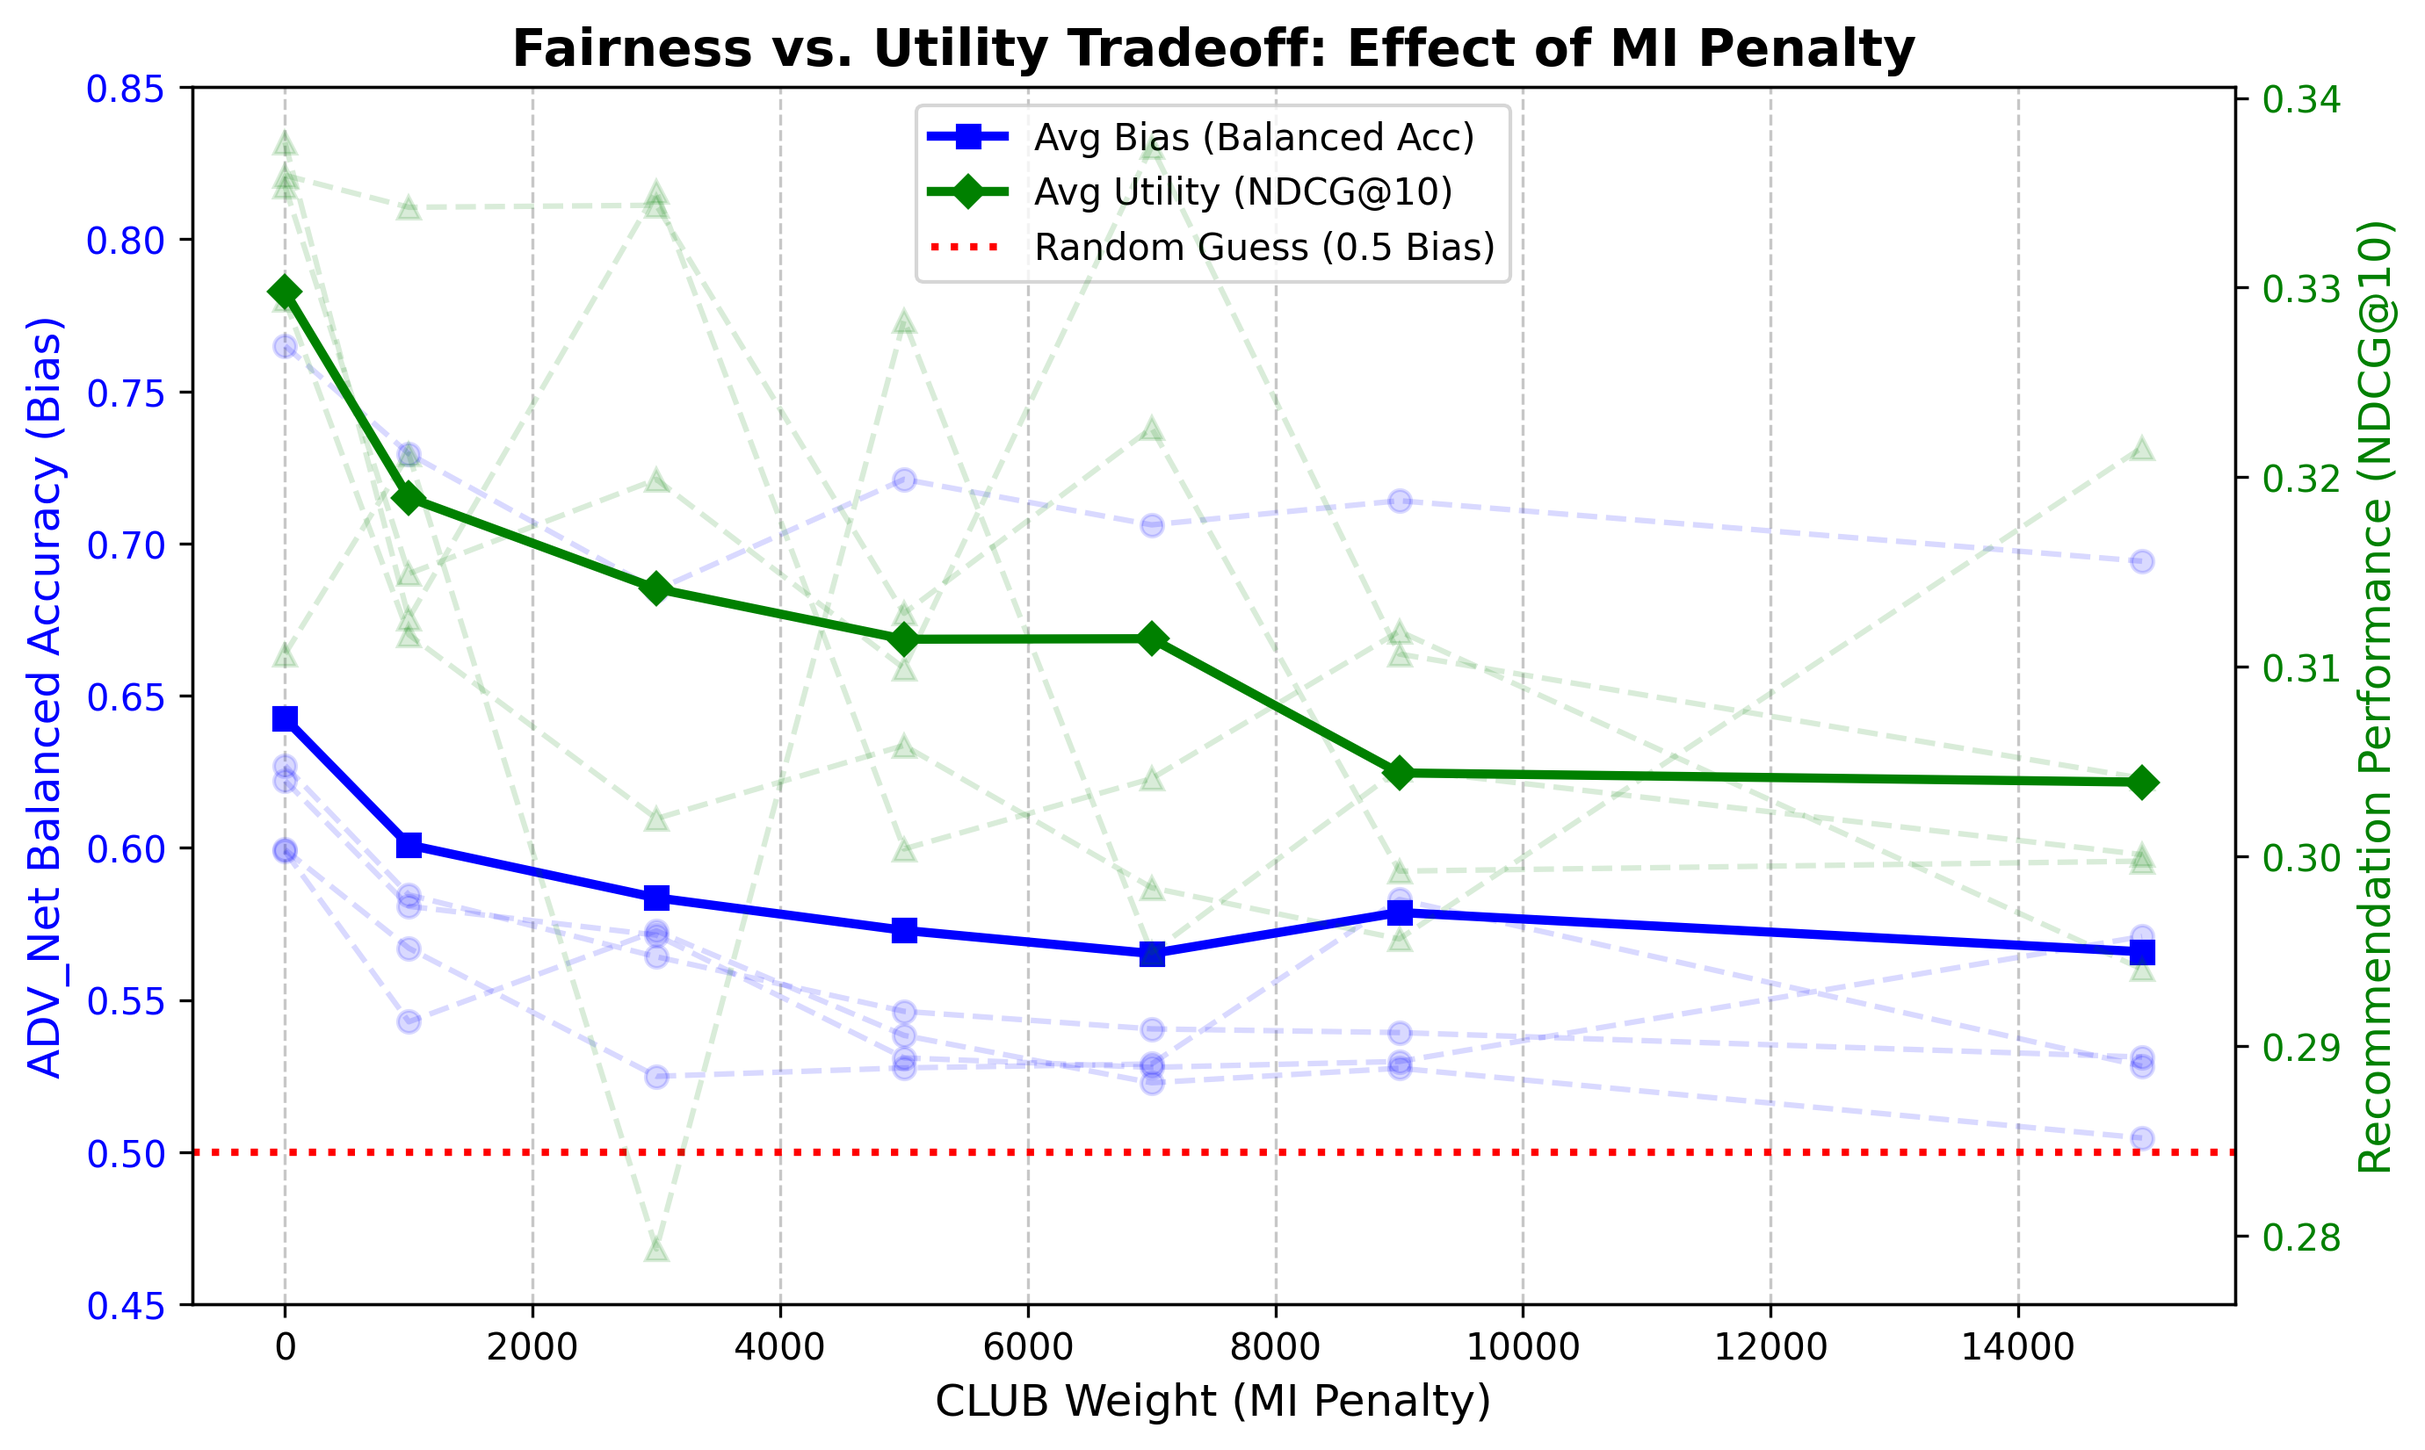
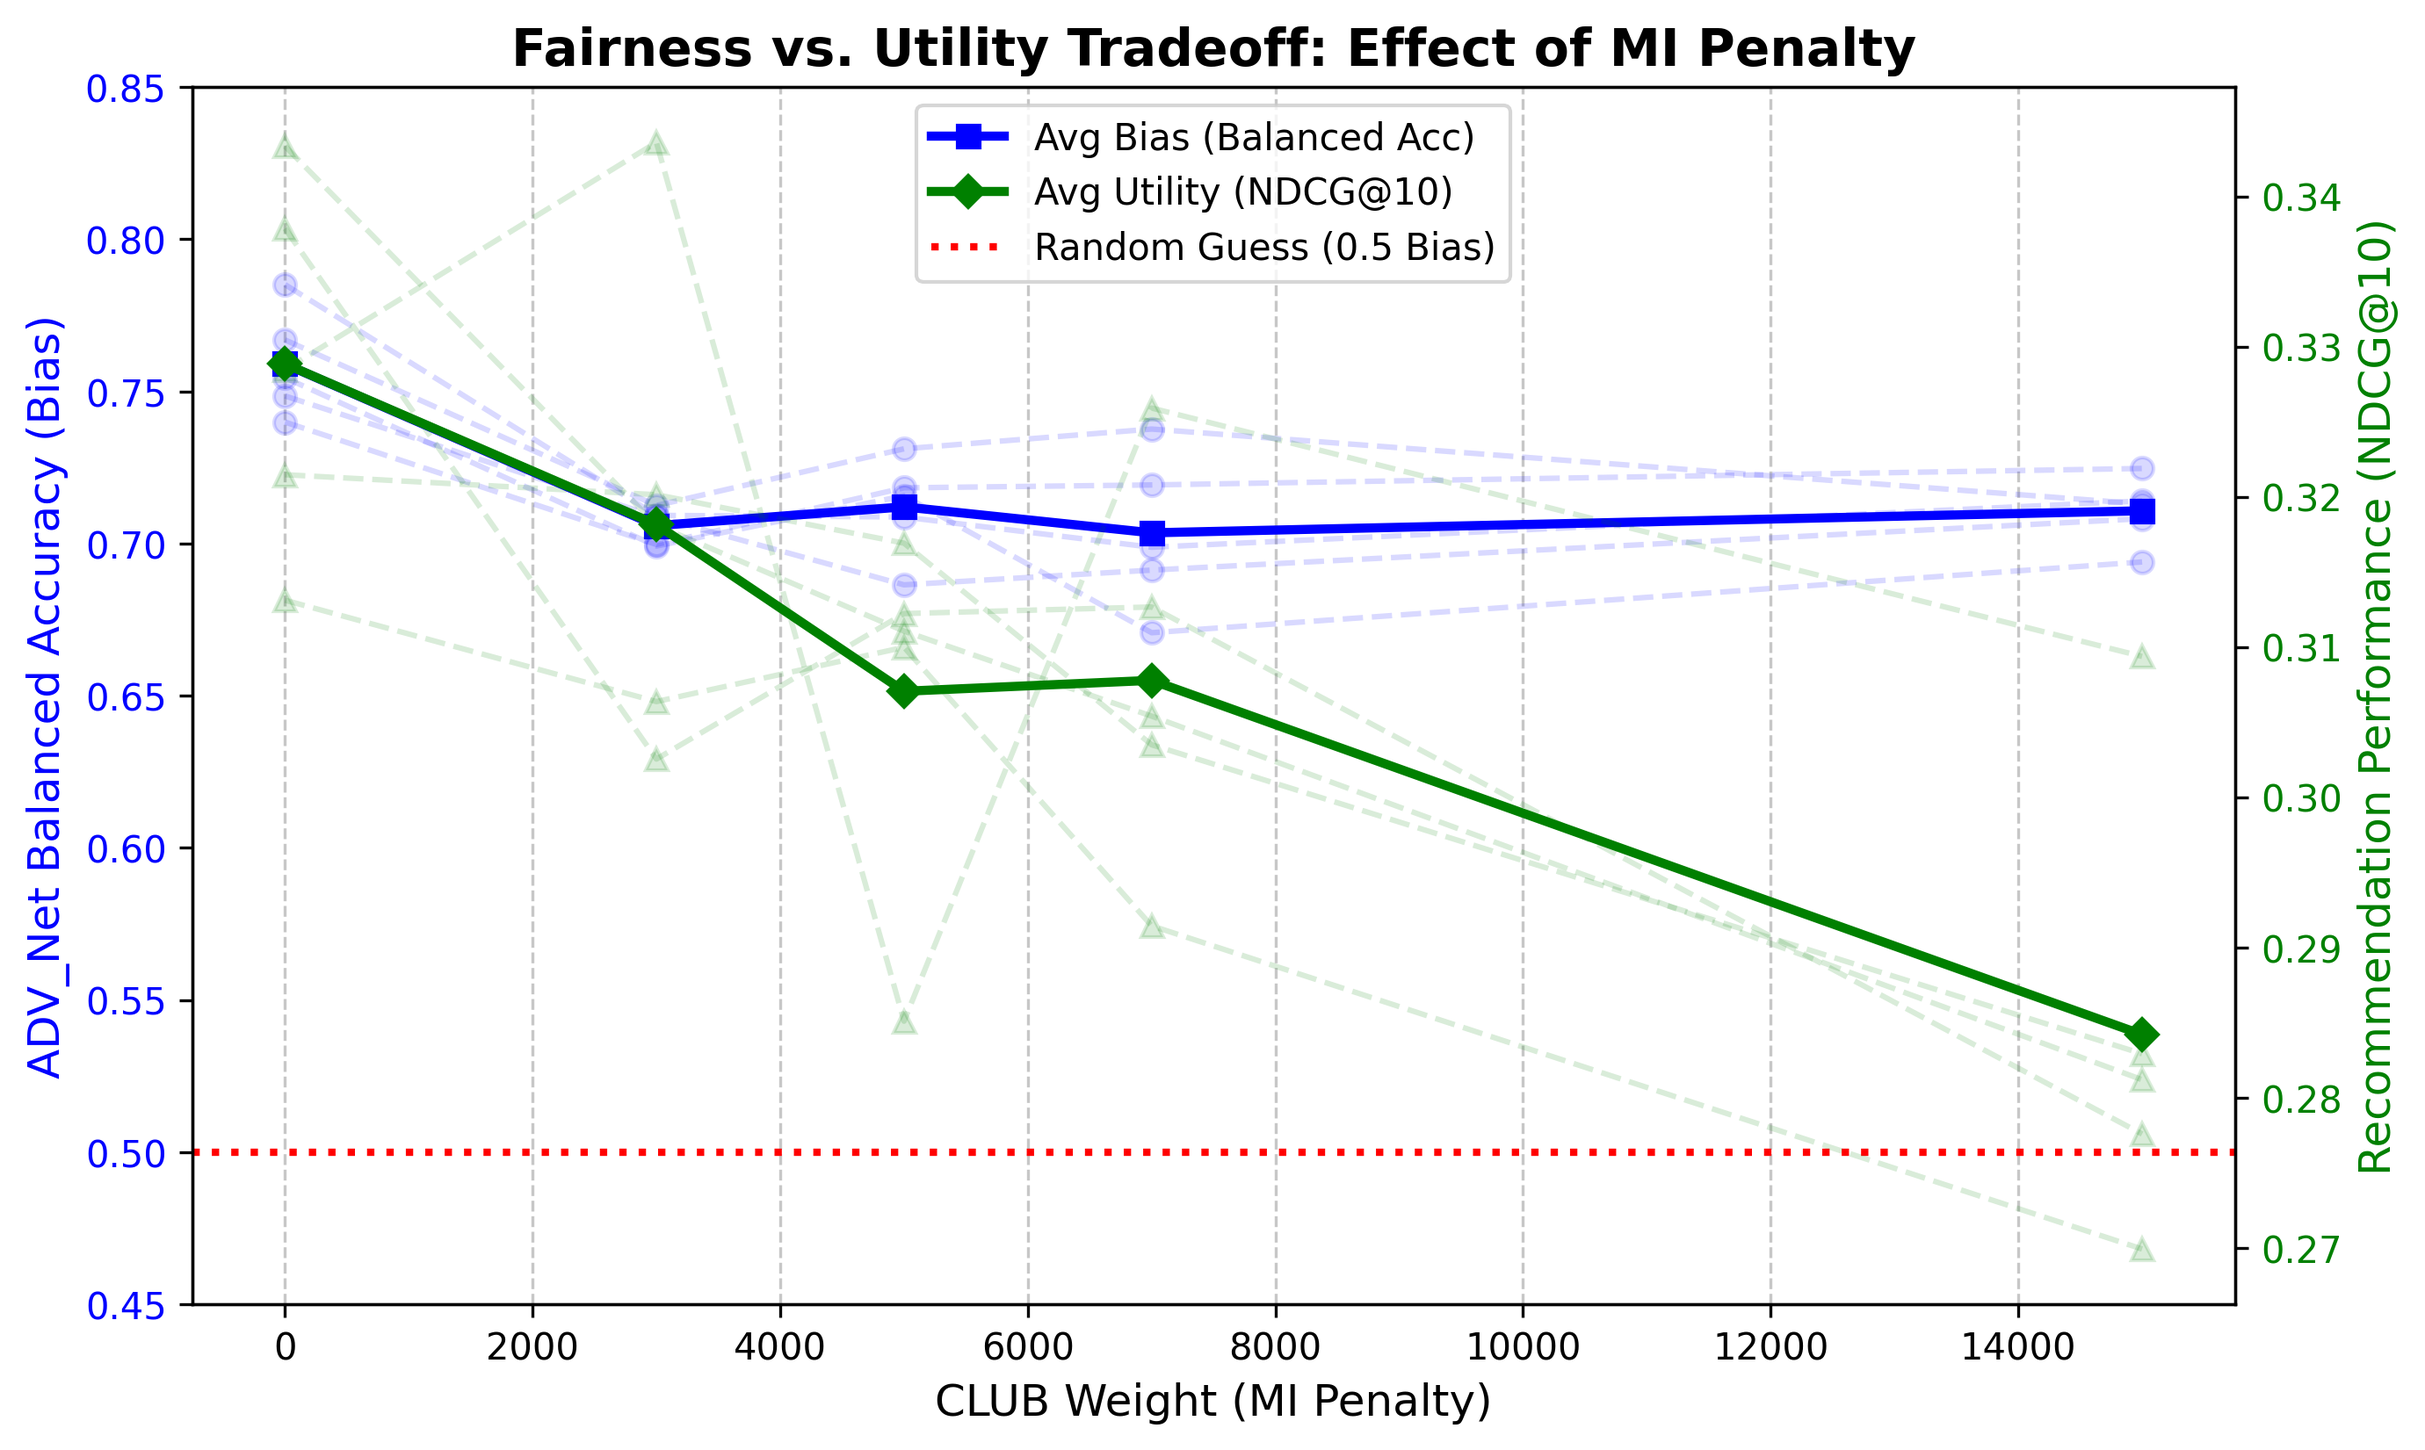
fixed some stuff

diff --git a/main.py b/main.py
@@ -1,10 +1,15 @@
 import argparse
+import os
+
+import pandas as pd
+import torch
 from NN_trainers.multVAE_trainer import train as train_multvae
 from NN_trainers.multVAE_DA_trainer import train as train_multvae_da
 from DataLoaders.ML1M_loader import get_ml1m_dataloaders
 from torch.utils.data import DataLoader
 from matplotlib import pyplot as plt
 import numpy as np
+from tqdm import tqdm
 
 # console app boilerplate
 if __name__ == "__main__":
@@ -14,36 +19,50 @@ if __name__ == "__main__":
     model_group.add_argument('--multvae', action='store_true', help='Train the multVAE model')
     model_group.add_argument('--multvae_da', action='store_true', help='Train the multVAE model with domain adaptation')
     model_group.add_argument('--multvae_da_visualize', action='store_true', help='Train the multVAE model with domain adaptation and visualize the bias by varying the CLUB weight')
+    parser.add_argument('--epochs', type=int, default=70, help='Number of training epochs')
+    parser.add_argument('--alldata', action='store_true', help='Use all data for training (no validation set)')
+    parser.add_argument('--prioritize_bias', action='store_true', help='Prioritize bias reduction by selecting the model with the lowest balanced accuracy on the bias prediction task, instead of the best validation performance')
+    parser.add_argument('--club_weight', type=float, default=7000.0, help='Weight for the CLUB penalty in the multVAE_DA model')
 
     # parse arguments
     args = parser.parse_args()
 
     # main logic here
     if args.multvae:
-        train_loader, val_loader, test_loader, train_user_info = get_ml1m_dataloaders()
+        train_loader, val_loader, test_loader, _ = get_ml1m_dataloaders()
         for idx, fold in enumerate(train_loader):
             print("Fold ", idx)
-            epochs = 70
+            epochs = args.epochs
             train_multvae(epochs=epochs, train_loader=DataLoader(fold, batch_size=128, shuffle=True), val_loader=DataLoader(val_loader[idx], batch_size=128, shuffle=False), test_loader=DataLoader(test_loader[idx], batch_size=128, shuffle=False), anneal_steps=len(fold)*45, anneal_cap=0.2)
 
     elif args.multvae_da:
         train_loader, val_loader, test_loader, train_user_info = get_ml1m_dataloaders()
-        for idx, fold in enumerate(train_loader):
-            print("Fold ", idx)
-            epochs = 70
-            train_multvae_da(epochs=epochs, train_loader=DataLoader(fold, batch_size=128, shuffle=True), train_user_info=train_user_info, val_loader=DataLoader(val_loader[idx], batch_size=128, shuffle=False), test_loader=DataLoader(test_loader[idx], batch_size=128, shuffle=False), anneal_steps=len(fold)*45, anneal_cap=0.2)
+        epochs = args.epochs
+        if args.alldata:
+            train_loader = torch.utils.data.ConcatDataset(train_loader)
+            val_loader = torch.utils.data.ConcatDataset(val_loader)
+            test_loader = torch.utils.data.ConcatDataset(test_loader)
+            train_user_info = pd.concat(train_user_info, ignore_index=True)
+            train_multvae_da(epochs=epochs, train_loader=DataLoader(train_loader, batch_size=128, shuffle=True), train_user_info=train_user_info, val_loader=DataLoader(val_loader, batch_size=128, shuffle=False), test_loader=DataLoader(test_loader, batch_size=128, shuffle=False), anneal_steps=len(train_loader)*120, anneal_cap=0.2, club_weight=args.club_weight, prioritize_bias=args.prioritize_bias)
+            
+        else:
+            for idx, fold in enumerate(train_loader):
+                print("Fold ", idx)
+                train_multvae_da(epochs=epochs, train_loader=DataLoader(fold, batch_size=128, shuffle=True), train_user_info=train_user_info[idx], val_loader=DataLoader(val_loader[idx], batch_size=128, shuffle=False), test_loader=DataLoader(test_loader[idx], batch_size=128, shuffle=False), anneal_steps=len(fold)*120, anneal_cap=0.2, club_weight=args.club_weight, prioritize_bias=args.prioritize_bias)
     elif args.multvae_da_visualize:
         train_loader, val_loader, test_loader, train_user_info = get_ml1m_dataloaders()
-        club_weights = [0.0, 1000.0, 3000.0, 5000.0, 7000.0, 9000.0, 15000.0]
-        epochs = 70
+        train_loader = torch.utils.data.ConcatDataset(train_loader)
+        val_loader = torch.utils.data.ConcatDataset(val_loader)
+        test_loader = torch.utils.data.ConcatDataset(test_loader)
+        train_user_info = pd.concat(train_user_info, ignore_index=True)
+        club_weights = [0.0, 3000.0, 7000.0, 15000.0, 20000.0]
+        epochs = args.epochs
         all_results = {w: [] for w in club_weights}
-
-        for idx, fold in enumerate(train_loader):
-            print("Fold ", idx)
-            for club_weight in club_weights:
-                (b_acc, ndcg) = train_multvae_da(epochs=int(epochs+(club_weight/100)), train_loader=DataLoader(fold, batch_size=128, shuffle=True), train_user_info=train_user_info, val_loader=DataLoader(val_loader[idx], batch_size=128, shuffle=False), test_loader=DataLoader(test_loader[idx], batch_size=128, shuffle=False), anneal_steps=len(fold)*int(45+(club_weight/100)), anneal_cap=0.2, club_weight=club_weight)
-                print(f"Club weight: {club_weight}, Best accuracy: {b_acc}, NDCG: {ndcg}")
-                all_results[club_weight].append((b_acc, ndcg))
+        for club_weight in tqdm(club_weights):
+            
+            (b_acc, ndcg) = train_multvae_da(epochs=int(epochs+(club_weight/100)), train_loader=DataLoader(train_loader, batch_size=128, shuffle=True), train_user_info=train_user_info, val_loader=DataLoader(val_loader, batch_size=128, shuffle=False), test_loader=DataLoader(test_loader, batch_size=128, shuffle=False), anneal_steps=len(train_loader)*int(45+(club_weight/100)), anneal_cap=0.2, club_weight=club_weight, prioritize_bias=args.prioritize_bias)
+            print(f"Club weight: {club_weight}, Best accuracy: {b_acc}, NDCG: {ndcg}")
+            all_results[club_weight].append((b_acc, ndcg))
 
         fig, ax1 = plt.subplots(figsize=(10, 6))
         ax2 = ax1.twinx()  # Create a second y-axis sharing the same x-axis

diff --git a/NN_trainers/multVAE_DA_trainer.py b/NN_trainers/multVAE_DA_trainer.py
@@ -11,6 +11,7 @@ import matplotlib.pyplot as plt
 import numpy as np
 from torch.utils.data import Subset
 import random
+from tqdm import tqdm
 
 def reparameterize(mu, logvar):
     std = torch.exp(0.5 * logvar)
@@ -30,7 +31,7 @@ def log_likelihood(y, mu, logvar):
         dim=1
     )
 
-def train(epochs, train_loader, train_user_info, test_loader=None, val_loader=None, anneal_steps=10000, anneal_cap=0.8, club_weight=5000.0):
+def train(epochs, train_loader, train_user_info, test_loader=None, val_loader=None, anneal_steps=10000, anneal_cap=0.8, club_weight=5000.0, prioritize_bias=False):
     device = torch.device('cuda:0' if torch.cuda.is_available() else 'cpu')
     latent_dim = 200
 
@@ -77,9 +78,10 @@ def train(epochs, train_loader, train_user_info, test_loader=None, val_loader=No
     print('Starting training...')
     best_result = 0.0
     best_model = None
+    last_model = None
     features_for_pca = []
     lables_for_visual = []
-    for j in range(epochs):
+    for j in tqdm(range(epochs)):
         for _, (x_data, _, idx) in enumerate(train_loader):
             x_data = x_data.to(device)
 
@@ -92,14 +94,14 @@ def train(epochs, train_loader, train_user_info, test_loader=None, val_loader=No
             sample_z_mipass = reparameterize(mu=mu_mipass, logvar=logvar_mipass)
             sample_z_mipass = sample_z_mipass.to(device)
             #print(sample_z_mipass.shape)
-            features_for_pca.extend(sample_z_mipass.cpu().detach().numpy().tolist())
+            #features_for_pca.extend(sample_z_mipass.cpu().detach().numpy().tolist())
             sample_domain_z_mipass = reparameterize(mu=mu_domain_mipass, logvar=logvar_domain_mipass)
             domain_pred_mu_mipass, domain_pred_logvar_mipass = mi_model(sample_z_mipass)
             mi_loss = -torch.mean(log_likelihood(sample_domain_z_mipass, domain_pred_mu_mipass, domain_pred_logvar_mipass)) # negative log likelihood
             mi_loss.backward()
             mi_optim.step()
 
-            recon_batch_featureoptim, mu_featureoptim, logvar_featureoptim, domain_prediction_featureoptim, mu_domain_featureoptim, logvar_domain_featureoptim = model(x_data)
+            recon_batch_featureoptim, mu_featureoptim, logvar_featureoptim, _, mu_domain_featureoptim, logvar_domain_featureoptim = model(x_data)
             # Compute VAE loss
             if total_anneal_steps > 0:
                 anneal = min(anneal_cap, 1. * update_count / total_anneal_steps)
@@ -164,7 +166,7 @@ def train(epochs, train_loader, train_user_info, test_loader=None, val_loader=No
             real_domain = train_user_info.iloc[idx.numpy()]
             gender_map = {'M': 1, 'F': 0}
             gender_array = real_domain['gender'].map(gender_map).to_numpy()
-            lables_for_visual.extend(gender_array)
+            #lables_for_visual.extend(gender_array)
             gender_tensor = torch.from_numpy(gender_array.copy()).float()
             gender_tensor = gender_tensor.to(device)
             loss = domain_loss(domain_predictions_domainoptim, torch.unsqueeze(gender_tensor, 1))
@@ -192,6 +194,19 @@ def train(epochs, train_loader, train_user_info, test_loader=None, val_loader=No
                     best_model = model.state_dict()  # Save the best model weights
                     #print(f'New best model found at epoch {j+1} with NDCG@10: {best_result:.4f}')
             model.train()
+
+    last_model = model.state_dict()  # Save the last model weights after training is complete
+
+    # get some random samples from the latent space to train the adversarial network on
+
+    for _, (x_data, _, idx) in enumerate(train_loader):
+            x_data = x_data.to(device)
+            _, mu, logvar, _, mu_domain, logvar_domain = model(x_data)
+            sample_z = reparameterize(mu=mu, logvar=logvar)
+            sample_z = sample_z.to(device)
+            features_for_pca.extend(sample_z.cpu().detach().numpy().tolist())
+            lables_for_visual.extend(train_user_info.iloc[idx.numpy()]['gender'].map({'M': 1, 'F': 0}).tolist())
+
 
     # visualize PCA with gender variable
     num_men = sum(lables_for_visual)
@@ -227,11 +242,15 @@ def train(epochs, train_loader, train_user_info, test_loader=None, val_loader=No
 
     #print(features_train.shape)
     #print(lables_train.shape)
-    for _ in range(10):
+    adv_model.to(device)
+    for _ in tqdm(range(10)):
         for batch in range(np.ceil(features_train.shape[0]/128).astype(int)):
             
             x_data = torch.from_numpy(features_train[batch*128:np.min([batch*128+128, features_train.shape[0]])])
             y_data = torch.from_numpy(lables_train[batch*128:np.min([batch*128+128, features_train.shape[0]])]).long()
+
+            x_data = x_data.to(device)
+            y_data = y_data.to(device)
 
             #print(x_data.type())
             #print(y_data.type())
@@ -254,6 +273,10 @@ def train(epochs, train_loader, train_user_info, test_loader=None, val_loader=No
         all_true = lables_test #torch.argmax(torch.from_numpy(lables_test), dim=1).numpy()
 
         b_acc = balanced_accuracy_score(all_true, all_preds)
+        if b_acc < least_b_acc and epochs > 70:  # Only consider models after a certain number of epochs to avoid early instability
+            least_b_acc = b_acc
+            least_b_acc_model = model.state_dict()
+            print(f"New least balanced accuracy model found with BACC: {least_b_acc}")
         print(f"Standardized Balanced Accuracy: {b_acc}")
         # 0.5 is random chance, 1.0 is perfect bias, 0.0 is perfectly wrong
     # TODO: train user etc. blabblablabla
@@ -278,6 +301,8 @@ def train(epochs, train_loader, train_user_info, test_loader=None, val_loader=No
 
     # check performance on test set after training is complete
     model.load_state_dict(best_model)  # Load the best model weights before testing
+    if prioritize_bias:
+        model.load_state_dict(last_model)
     if test_loader is not None:
         model.eval()
         batch_evaluator = BatchEvaluator(metrics=["ndcg", "recall"], top_k=[10, 50])

diff --git a/DataLoaders/ML1M_loader.py b/DataLoaders/ML1M_loader.py
@@ -38,6 +38,10 @@ class MovieLensDataset(Dataset):
     
 def get_ml1m_dataloaders():
     train_fold_list = []
+    train_user_info = []
+    val_fold_list = []
+    test_fold_list = []
+
     for i in range(5):
         train_fold_list.append(
             MovieLensDataset(
@@ -46,9 +50,6 @@ def get_ml1m_dataloaders():
                 fold_id=i
             )
         )
-    train_user_info = pd.read_csv(os.path.join(os.path.join('datasets', 'processed', 'ml-1m'), f"{i}", f'train_user_info.csv'))
-    val_fold_list = []
-    for i in range(5):
         val_fold_list.append(
             MovieLensDataset(
                 data_dir=os.path.join('datasets', 'processed', 'ml-1m'),
@@ -56,8 +57,6 @@ def get_ml1m_dataloaders():
                 fold_id=i
             )
         )
-    test_fold_list = []
-    for i in range(5):
         test_fold_list.append(
             MovieLensDataset(
                 data_dir=os.path.join('datasets', 'processed', 'ml-1m'),
@@ -65,5 +64,6 @@ def get_ml1m_dataloaders():
                 fold_id=i
             )
         )
+        train_user_info.append(pd.read_csv(os.path.join(os.path.join('datasets', 'processed', 'ml-1m'), f"{i}", f'train_user_info.csv')))
     
     return train_fold_list, val_fold_list, test_fold_list, train_user_info
